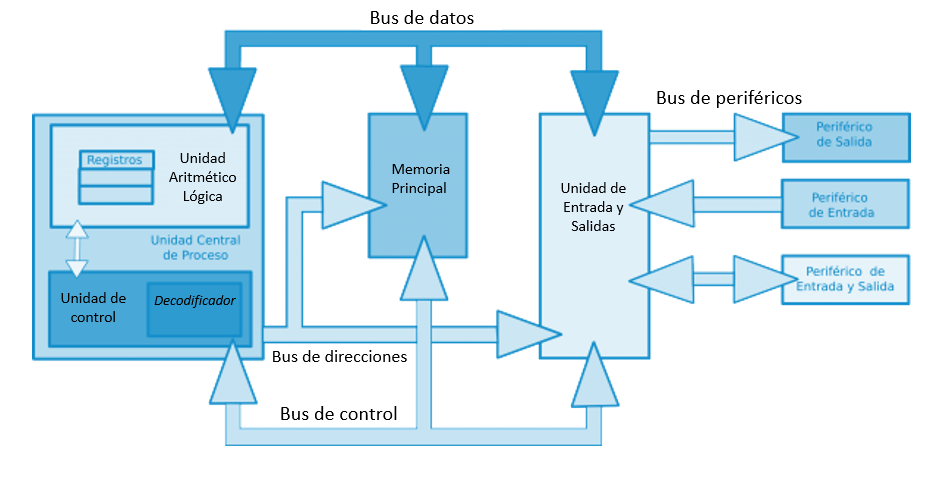
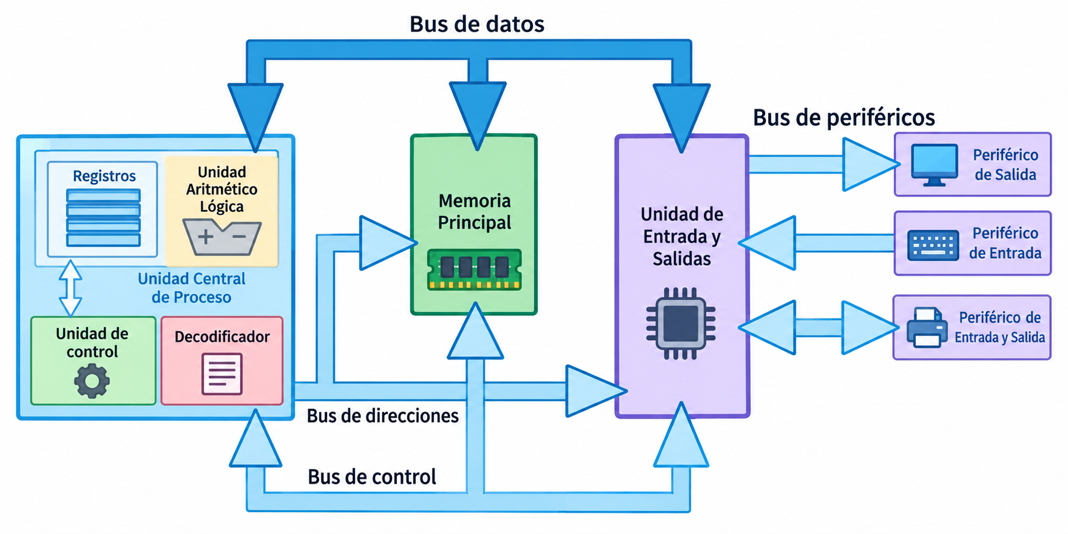
si 26-27

diff --git a/ut2.1.md b/ut2.1.md
@@ -50,7 +50,7 @@ Una de las memorias contiene solamente las instrucciones del programa (Memoria d
 
 ## Arquitectura Von Neumann
 
->   💡 La arquitectura **Von Neumann** es una arquitectura de computadoras descrita en 1945 por el matemático y físico John Von Neumann. Esta es la arquitectura que rige actualmente en los ordenadores modernos con ligeras modificaciones.
+La arquitectura **Von Neumann** es una arquitectura de computadoras descrita en 1945 por el matemático y físico John Von Neumann. Esta es la arquitectura que rige actualmente en los ordenadores modernos con ligeras modificaciones.
 
 Tradicionalmente los sistemas con microprocesadores se basan en esta arquitectura, en la cual la unidad central de proceso (CPU), está conectada a una memoria principal única (casi siempre sólo RAM) donde se guardan las instrucciones del programa y los datos. A dicha memoria se accede a través de un sistema de buses único (control, direcciones y datos):
 
@@ -93,7 +93,9 @@ Dicha arquitectura consta de los siguientes <u>bloques</u>:
 
 ### Cuello de botella del modelo  
 
->   📌 El canal de transmisión de los datos entre CPU y memoria genera un **cuello de botella** para el rendimiento del procesador. 
+```note
+El canal de transmisión de los datos entre CPU y memoria genera un **cuello de botella** para el rendimiento del procesador. 
+```
 
 En la mayoría de computadoras modernas, la velocidad de comunicación entre la memoria y la CPU es más baja que la velocidad a la que puede trabajar esta última, reduciendo el rendimiento del procesador y limitando seriamente la velocidad de proceso eficaz, sobre todo cuando se necesitan procesar grandes cantidades de datos.
 
@@ -119,8 +121,11 @@ Un procesador está compuesto principalmente de:
 -   Reloj
 -   Otros: Tarjeta gráfica integrada (IGP) u otros elementos auxiliares
 
+### Frecuencia de reloj	
 
->   💡 La **frecuencia de reloj** en relación a un procesador o indica la frecuencia a la cual los transistores que lo conforman conmutan eléctricamente, es decir, abren y cierran el flujo de una corriente eléctrica.
+```note
+La **frecuencia de reloj** en relación a un procesador o indica la frecuencia a la cual los transistores que lo conforman conmutan eléctricamente, es decir, abren y cierran el flujo de una corriente eléctrica.
+```
 
 La frecuencia es una magnitud cuya unidad es el **Hertzio** "Hz", que representa un ciclo u oscilación por segundo. En el caso de los procesadores indica las conmutaciones eléctricas en un segundo dentro de un transistor.
 
@@ -128,6 +133,7 @@ $$
 2,1 GHz → 2,1·10^9
 $$
 
+![](media/frequency.png)
 
 ### Unidad de Control (UC)
 
@@ -153,7 +159,9 @@ El proceso empieza cuando llega una instrucción al **registro de instrucciones*
 
 ###  Unidad Aritmético-Lógica (ALU)
 
->   💡 Las funciones de la **Unidad aritmético-lógica (ALU)** son principalmente la de ejecutar operaciones aritméticas y comparaciones.
+```note
+Las funciones de la **Unidad aritmético-lógica (ALU)** son principalmente la de ejecutar operaciones aritméticas y comparaciones.
+```
 
 -   Cálculos (operaciones aritméticas)
     -   suma, resta, multiplicación y división
@@ -211,7 +219,7 @@ Vamos a trabajar con los siguientes registros de la CPU que ya hemos nombrado:
 4. La UC ordenará a la ALU que efectúe las operaciones necesarias. El resultado de la operación se almacenará en el **Registro Acumulador**.
 5. Finalmente se incrementará en 1 el registro del **Contador de Programa**.
 
-##   La memoria	
+## La memoria	
 
 ```note
 Se denomina **memoria** a cualquier dispositivo electrónico que retenga, memorice o almacena datos informáticos durante un período de tiempo determinado.
@@ -329,6 +337,7 @@ Existen varios tipos de buses:
 
 - **Bus de datos**: permite el intercambio de datos entre la CPU y el resto de dispositivos.
 
+![](media/buses.png)
 
 ![](media/esquema_bus.jpg)
 
@@ -336,6 +345,7 @@ Existen varios tipos de buses:
 
 
 Podemos clasificar los buses también según el tipo de transmisión: 
+
 - **Serie/Paralelo**: un bus en serie envía la información secuencialmente bit a bit, mientras que un bus paralelo puede enviar una palabra completa en un solo ciclo de reloj. Los buses paralelos tienen par tanta la ventaja de su velocidad pero tienen problemas de  sincronización de señales para largas distancias y son más caras 
 - **Unidireccional/bidireccional**: en función de si únicamente pueden transmitir información en un sentido o si pue den transmitir en ambos sentidos. 
 - **Simplex/semiduplex/fullduplex** el bus simple es unidireccional. Es semiduplex cuando puede enviar en ambos sentidos pero no al mismo tiempo (a bien envía en un sentido o  bien envía en el otro), y es fullduplex cuando puede enviar en ambos sentidos simultáneamente. 
@@ -346,6 +356,10 @@ Existen dos tipos de transferencia en los buses como ya comentamos:
 - **Paralelo**: El bus permite transferir varios bits simultáneamente, por ejemplo 8 bits.
 
 ![esquema_buses](media/esquema_buses.png)
+
+### Jerarquía de buses
+
+![jerarquia_buses](media/jerarquia_buses.png)
 
 ## Unidad de control E/S	
 
